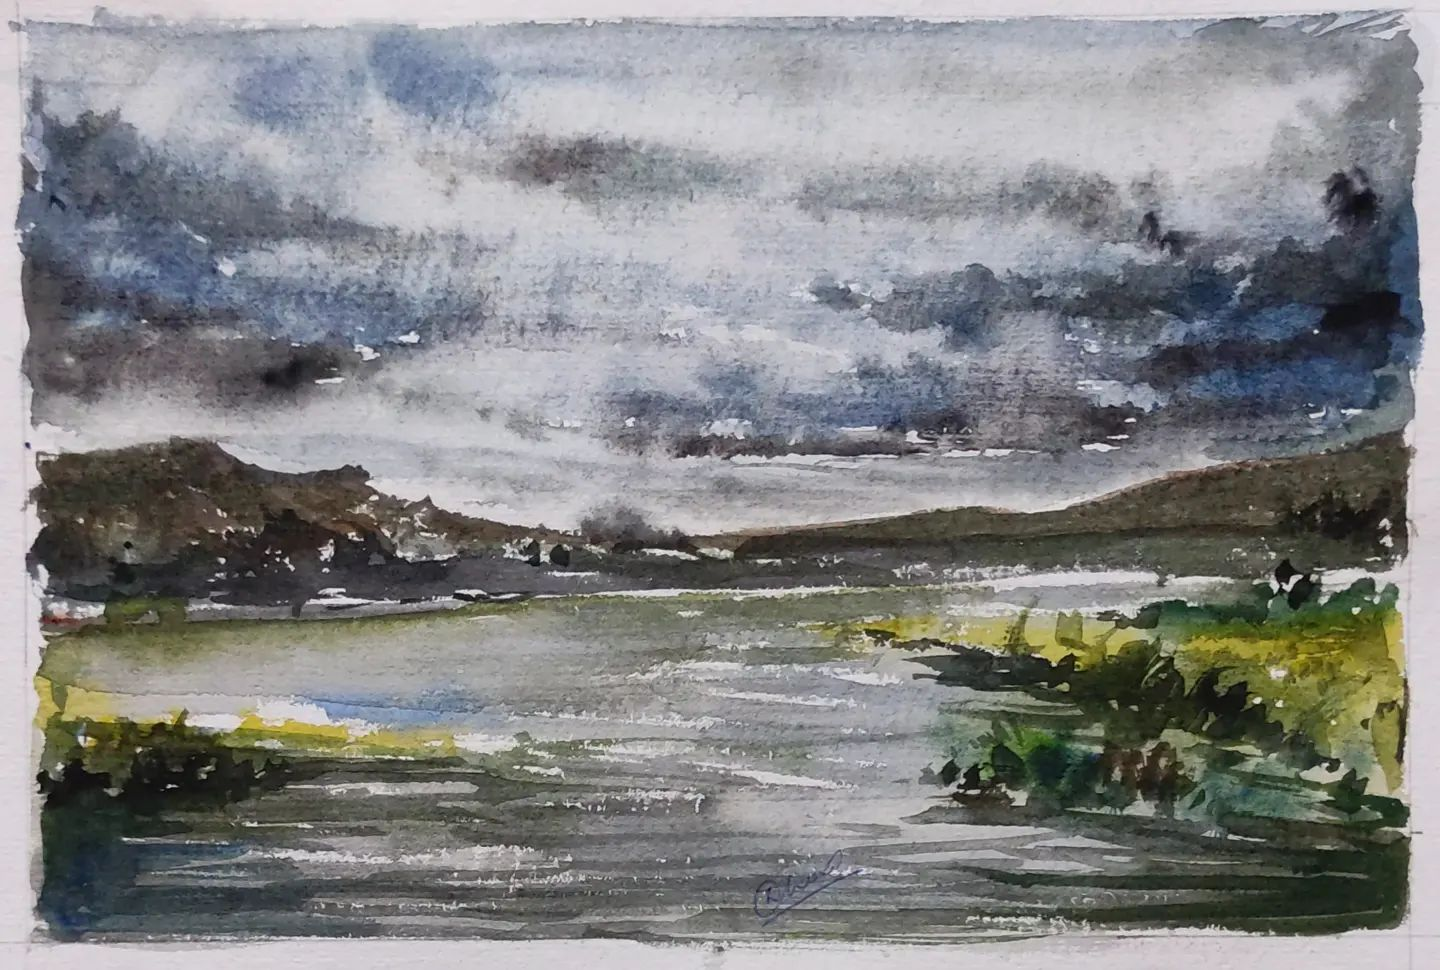
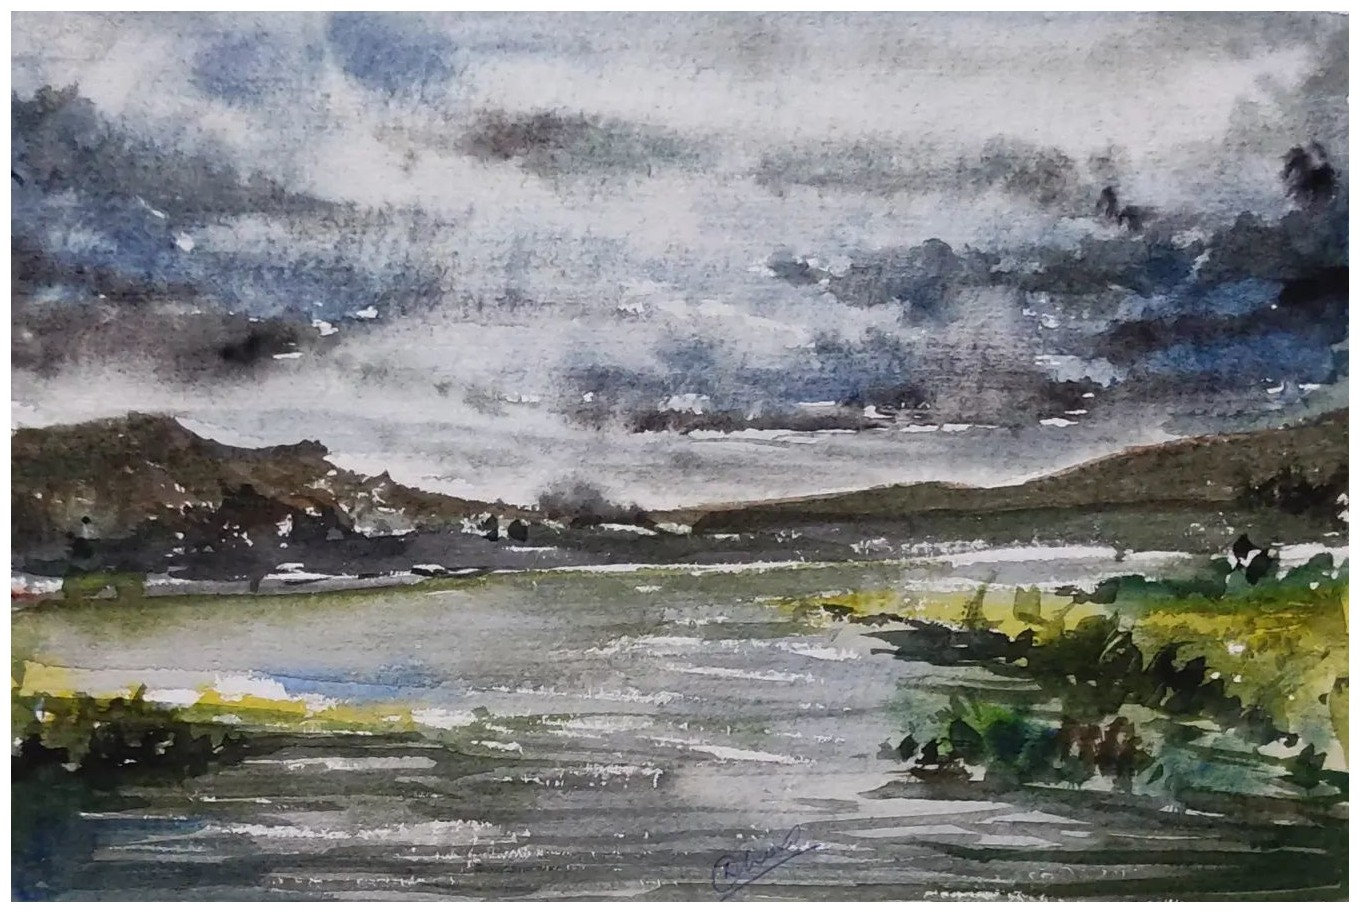
added some photots

diff --git a/docs/others/watercolors/sky/index.html b/docs/others/watercolors/sky/index.html
@@ -17,8 +17,8 @@
   <meta name="viewport" content="width=device-width, initial-scale=1.0" />
   <meta name="theme-color" content="#FFFFFF" />
   
-  <title>Don&#39;t you love the skies &middot; Debojit</title>
-    <meta name="title" content="Don&#39;t you love the skies &middot; Debojit" />
+  <title>Don&#39;t you love the sky? &middot; Debojit</title>
+    <meta name="title" content="Don&#39;t you love the sky? &middot; Debojit" />
   
   
   
@@ -98,7 +98,7 @@
   
   <meta property="og:url" content="https://debojitchanda.github.io/others/watercolors/sky/">
   <meta property="og:site_name" content="Debojit">
-  <meta property="og:title" content="Don&#39;t you love the skies">
+  <meta property="og:title" content="Don&#39;t you love the sky?">
   <meta property="og:locale" content="en">
   <meta property="og:type" content="article">
     <meta property="article:section" content="others">
@@ -107,7 +107,7 @@
 
   
   <meta name="twitter:card" content="summary">
-  <meta name="twitter:title" content="Don&#39;t you love the skies">
+  <meta name="twitter:title" content="Don&#39;t you love the sky?">
 
   
   <script type="application/ld+json">
@@ -115,8 +115,8 @@
     "@context": "https://schema.org",
     "@type": "Article",
     "articleSection": "Other things I do ...",
-    "name": "Don\u0027t you love the skies",
-    "headline": "Don\u0027t you love the skies",
+    "name": "Don\u0027t you love the sky?",
+    "headline": "Don\u0027t you love the sky?",
     
     
     "inLanguage": "en",
@@ -134,7 +134,7 @@
     
     
     "mainEntityOfPage": "true",
-    "wordCount": "35"
+    "wordCount": "49"
   }
   </script>
     
@@ -164,7 +164,7 @@
      },
      {
        "@type": "ListItem",
-       "name": "Don't You Love the Skies",
+       "name": "Don't You Love the Sky?",
        "position": 4
      }
    ]
@@ -381,7 +381,7 @@
     <a
       class="dark:underline-neutral-600 decoration-neutral-300 hover:underline"
       href="/others/watercolors/sky/"
-      >Don&#39;t you love the skies</a
+      >Don&#39;t you love the sky?</a
     ><span class="px-1 text-primary-500">/</span>
   </li>
 
@@ -390,7 +390,7 @@
 
       
       <h1 class="mb-8 mt-0 text-4xl font-extrabold text-neutral-900 dark:text-neutral">
-        Don't you love the skies
+        Don't you love the sky?
       </h1>
       
         <div class="mb-10 text-base text-neutral-500 dark:text-neutral-400 print:hidden">
@@ -428,7 +428,7 @@
   <div class="flex flex-row flex-wrap items-center">
     
     
-      <time datetime="2024-12-25 00:00:00 &#43;0000 UTC">25 December 2024</time><span class="px-2 text-primary-500">&middot;</span><span>35 words</span><span class="px-2 text-primary-500">&middot;</span><span title="Reading time">1 min</span>
+      <time datetime="2024-12-25 00:00:00 &#43;0000 UTC">25 December 2024</time><span class="px-2 text-primary-500">&middot;</span><span>49 words</span><span class="px-2 text-primary-500">&middot;</span><span title="Reading time">1 min</span>
     
 
     
@@ -452,7 +452,8 @@
     <section class="prose mt-0 flex max-w-full flex-col dark:prose-invert lg:flex-row">
       
       <div class="min-h-0 min-w-0 max-w-prose grow">
-        
+        <p>One of my favorite subjects to paint. Enjoy!!</p>
+
   
   
   
@@ -465,8 +466,8 @@
     
   
   <figure class="mx-auto my-0 rounded-md">
-    <img src="/others/watercolors/wait.jpg" alt="watercolor:wait" class="mx-auto my-0 rounded-md"/>
-    <figcaption class="text-center"><strong>Infinity canvas</strong> : <em>A mystique sunset seen over the see.</em> Medium: Watercolor (Camel&rsquo;s Artists&rsquo; Tube)</figcaption>
+    <img src="/others/watercolors/sky1.jpg" alt="watercolor:sky1" class="mx-auto my-0 rounded-md"/>
+    <figcaption class="text-center"><strong>Infinity canvas</strong> : <em>Serene sunset and the rain clouds gather.</em> Medium: Watercolor (Camel&rsquo;s Artists&rsquo; Tube)</figcaption>
   </figure>
 
 
@@ -483,8 +484,8 @@
     
   
   <figure class="mx-auto my-0 rounded-md">
-    <img src="/others/watercolors/vinland.jpg" alt="watercolor:vinland" class="mx-auto my-0 rounded-md"/>
-    <figcaption class="text-center"><strong>Shades of heaven</strong> : <em>A distant land of paradise, inspired from the manga <a href="https://en.wikipedia.org/wiki/Vinland_Saga_%28manga%29" target="_blank" rel="noreferrer">Vinland Saga</a>.</em> Medium: Watercolor (Camel&rsquo;s Artists&rsquo; Tube)</figcaption>
+    <img src="/others/watercolors/sky2.png" alt="watercolor:sky2" class="mx-auto my-0 rounded-md"/>
+    <figcaption class="text-center"><strong>Shades of heaven and earth</strong> : <em>Close your eyes and watch the sky, feel the shadows of the clouds passing by!</em> Medium: Watercolor (Camel&rsquo;s Artists&rsquo; Tube)</figcaption>
   </figure>
 
 
@@ -501,7 +502,7 @@
       
         <a
           class="m-1 inline-block min-w-[2.4rem] rounded bg-neutral-300 p-1 text-center text-neutral-700 hover:bg-primary-500 hover:text-neutral dark:bg-neutral-700 dark:text-neutral-300 dark:hover:bg-primary-400 dark:hover:text-neutral-800"
-          href="https://www.facebook.com/sharer/sharer.php?u=https://debojitchanda.github.io/others/watercolors/sky/&amp;quote=Don%27t%20you%20love%20the%20skies"
+          href="https://www.facebook.com/sharer/sharer.php?u=https://debojitchanda.github.io/others/watercolors/sky/&amp;quote=Don%27t%20you%20love%20the%20sky?"
           title="Share on Facebook"
           aria-label="Share on Facebook"
           target="_blank"
@@ -514,7 +515,7 @@
       
         <a
           class="m-1 inline-block min-w-[2.4rem] rounded bg-neutral-300 p-1 text-center text-neutral-700 hover:bg-primary-500 hover:text-neutral dark:bg-neutral-700 dark:text-neutral-300 dark:hover:bg-primary-400 dark:hover:text-neutral-800"
-          href="https://twitter.com/intent/tweet/?url=https://debojitchanda.github.io/others/watercolors/sky/&amp;text=Don%27t%20you%20love%20the%20skies"
+          href="https://twitter.com/intent/tweet/?url=https://debojitchanda.github.io/others/watercolors/sky/&amp;text=Don%27t%20you%20love%20the%20sky?"
           title="Tweet on Twitter"
           aria-label="Tweet on Twitter"
           target="_blank"
@@ -527,7 +528,7 @@
       
         <a
           class="m-1 inline-block min-w-[2.4rem] rounded bg-neutral-300 p-1 text-center text-neutral-700 hover:bg-primary-500 hover:text-neutral dark:bg-neutral-700 dark:text-neutral-300 dark:hover:bg-primary-400 dark:hover:text-neutral-800"
-          href="https://pinterest.com/pin/create/bookmarklet/?url=https://debojitchanda.github.io/others/watercolors/sky/&amp;description=Don%27t%20you%20love%20the%20skies"
+          href="https://pinterest.com/pin/create/bookmarklet/?url=https://debojitchanda.github.io/others/watercolors/sky/&amp;description=Don%27t%20you%20love%20the%20sky?"
           title="Pin on Pinterest"
           aria-label="Pin on Pinterest"
           target="_blank"
@@ -540,7 +541,7 @@
       
         <a
           class="m-1 inline-block min-w-[2.4rem] rounded bg-neutral-300 p-1 text-center text-neutral-700 hover:bg-primary-500 hover:text-neutral dark:bg-neutral-700 dark:text-neutral-300 dark:hover:bg-primary-400 dark:hover:text-neutral-800"
-          href="https://reddit.com/submit/?url=https://debojitchanda.github.io/others/watercolors/sky/&amp;resubmit=true&amp;title=Don%27t%20you%20love%20the%20skies"
+          href="https://reddit.com/submit/?url=https://debojitchanda.github.io/others/watercolors/sky/&amp;resubmit=true&amp;title=Don%27t%20you%20love%20the%20sky?"
           title="Submit to Reddit"
           aria-label="Submit to Reddit"
           target="_blank"
@@ -553,7 +554,7 @@
       
         <a
           class="m-1 inline-block min-w-[2.4rem] rounded bg-neutral-300 p-1 text-center text-neutral-700 hover:bg-primary-500 hover:text-neutral dark:bg-neutral-700 dark:text-neutral-300 dark:hover:bg-primary-400 dark:hover:text-neutral-800"
-          href="https://www.linkedin.com/shareArticle?mini=true&amp;url=https://debojitchanda.github.io/others/watercolors/sky/&amp;title=Don%27t%20you%20love%20the%20skies"
+          href="https://www.linkedin.com/shareArticle?mini=true&amp;url=https://debojitchanda.github.io/others/watercolors/sky/&amp;title=Don%27t%20you%20love%20the%20sky?"
           title="Share on LinkedIn"
           aria-label="Share on LinkedIn"
           target="_blank"
@@ -566,7 +567,7 @@
       
         <a
           class="m-1 inline-block min-w-[2.4rem] rounded bg-neutral-300 p-1 text-center text-neutral-700 hover:bg-primary-500 hover:text-neutral dark:bg-neutral-700 dark:text-neutral-300 dark:hover:bg-primary-400 dark:hover:text-neutral-800"
-          href="mailto:?body=https://debojitchanda.github.io/others/watercolors/sky/&amp;subject=Don%27t%20you%20love%20the%20skies"
+          href="mailto:?body=https://debojitchanda.github.io/others/watercolors/sky/&amp;subject=Don%27t%20you%20love%20the%20sky?"
           title="Send via email"
           aria-label="Send via email"
           target="_blank"

diff --git a/docs/others/watercolors/wait/index.html b/docs/others/watercolors/wait/index.html
@@ -17,8 +17,8 @@
   <meta name="viewport" content="width=device-width, initial-scale=1.0" />
   <meta name="theme-color" content="#FFFFFF" />
   
-  <title>Wait for paradise &middot; Debojit</title>
-    <meta name="title" content="Wait for paradise &middot; Debojit" />
+  <title>Wait for paradise! &middot; Debojit</title>
+    <meta name="title" content="Wait for paradise! &middot; Debojit" />
   
   
   
@@ -98,7 +98,7 @@
   
   <meta property="og:url" content="https://debojitchanda.github.io/others/watercolors/wait/">
   <meta property="og:site_name" content="Debojit">
-  <meta property="og:title" content="Wait for paradise">
+  <meta property="og:title" content="Wait for paradise!">
   <meta property="og:locale" content="en">
   <meta property="og:type" content="article">
     <meta property="article:section" content="others">
@@ -107,7 +107,7 @@
 
   
   <meta name="twitter:card" content="summary">
-  <meta name="twitter:title" content="Wait for paradise">
+  <meta name="twitter:title" content="Wait for paradise!">
 
   
   <script type="application/ld+json">
@@ -115,8 +115,8 @@
     "@context": "https://schema.org",
     "@type": "Article",
     "articleSection": "Other things I do ...",
-    "name": "Wait for paradise",
-    "headline": "Wait for paradise",
+    "name": "Wait for paradise!",
+    "headline": "Wait for paradise!",
     
     
     "inLanguage": "en",
@@ -164,7 +164,7 @@
      },
      {
        "@type": "ListItem",
-       "name": "Wait for Paradise",
+       "name": "Wait for Paradise!",
        "position": 4
      }
    ]
@@ -381,7 +381,7 @@
     <a
       class="dark:underline-neutral-600 decoration-neutral-300 hover:underline"
       href="/others/watercolors/wait/"
-      >Wait for paradise</a
+      >Wait for paradise!</a
     ><span class="px-1 text-primary-500">/</span>
   </li>
 
@@ -390,7 +390,7 @@
 
       
       <h1 class="mb-8 mt-0 text-4xl font-extrabold text-neutral-900 dark:text-neutral">
-        Wait for paradise
+        Wait for paradise!
       </h1>
       
         <div class="mb-10 text-base text-neutral-500 dark:text-neutral-400 print:hidden">
@@ -503,7 +503,7 @@
       
         <a
           class="m-1 inline-block min-w-[2.4rem] rounded bg-neutral-300 p-1 text-center text-neutral-700 hover:bg-primary-500 hover:text-neutral dark:bg-neutral-700 dark:text-neutral-300 dark:hover:bg-primary-400 dark:hover:text-neutral-800"
-          href="https://www.facebook.com/sharer/sharer.php?u=https://debojitchanda.github.io/others/watercolors/wait/&amp;quote=Wait%20for%20paradise"
+          href="https://www.facebook.com/sharer/sharer.php?u=https://debojitchanda.github.io/others/watercolors/wait/&amp;quote=Wait%20for%20paradise!"
           title="Share on Facebook"
           aria-label="Share on Facebook"
           target="_blank"
@@ -516,7 +516,7 @@
       
         <a
           class="m-1 inline-block min-w-[2.4rem] rounded bg-neutral-300 p-1 text-center text-neutral-700 hover:bg-primary-500 hover:text-neutral dark:bg-neutral-700 dark:text-neutral-300 dark:hover:bg-primary-400 dark:hover:text-neutral-800"
-          href="https://twitter.com/intent/tweet/?url=https://debojitchanda.github.io/others/watercolors/wait/&amp;text=Wait%20for%20paradise"
+          href="https://twitter.com/intent/tweet/?url=https://debojitchanda.github.io/others/watercolors/wait/&amp;text=Wait%20for%20paradise!"
           title="Tweet on Twitter"
           aria-label="Tweet on Twitter"
           target="_blank"
@@ -529,7 +529,7 @@
       
         <a
           class="m-1 inline-block min-w-[2.4rem] rounded bg-neutral-300 p-1 text-center text-neutral-700 hover:bg-primary-500 hover:text-neutral dark:bg-neutral-700 dark:text-neutral-300 dark:hover:bg-primary-400 dark:hover:text-neutral-800"
-          href="https://pinterest.com/pin/create/bookmarklet/?url=https://debojitchanda.github.io/others/watercolors/wait/&amp;description=Wait%20for%20paradise"
+          href="https://pinterest.com/pin/create/bookmarklet/?url=https://debojitchanda.github.io/others/watercolors/wait/&amp;description=Wait%20for%20paradise!"
           title="Pin on Pinterest"
           aria-label="Pin on Pinterest"
           target="_blank"
@@ -542,7 +542,7 @@
       
         <a
           class="m-1 inline-block min-w-[2.4rem] rounded bg-neutral-300 p-1 text-center text-neutral-700 hover:bg-primary-500 hover:text-neutral dark:bg-neutral-700 dark:text-neutral-300 dark:hover:bg-primary-400 dark:hover:text-neutral-800"
-          href="https://reddit.com/submit/?url=https://debojitchanda.github.io/others/watercolors/wait/&amp;resubmit=true&amp;title=Wait%20for%20paradise"
+          href="https://reddit.com/submit/?url=https://debojitchanda.github.io/others/watercolors/wait/&amp;resubmit=true&amp;title=Wait%20for%20paradise!"
           title="Submit to Reddit"
           aria-label="Submit to Reddit"
           target="_blank"
@@ -555,7 +555,7 @@
       
         <a
           class="m-1 inline-block min-w-[2.4rem] rounded bg-neutral-300 p-1 text-center text-neutral-700 hover:bg-primary-500 hover:text-neutral dark:bg-neutral-700 dark:text-neutral-300 dark:hover:bg-primary-400 dark:hover:text-neutral-800"
-          href="https://www.linkedin.com/shareArticle?mini=true&amp;url=https://debojitchanda.github.io/others/watercolors/wait/&amp;title=Wait%20for%20paradise"
+          href="https://www.linkedin.com/shareArticle?mini=true&amp;url=https://debojitchanda.github.io/others/watercolors/wait/&amp;title=Wait%20for%20paradise!"
           title="Share on LinkedIn"
           aria-label="Share on LinkedIn"
           target="_blank"
@@ -568,7 +568,7 @@
       
         <a
           class="m-1 inline-block min-w-[2.4rem] rounded bg-neutral-300 p-1 text-center text-neutral-700 hover:bg-primary-500 hover:text-neutral dark:bg-neutral-700 dark:text-neutral-300 dark:hover:bg-primary-400 dark:hover:text-neutral-800"
-          href="mailto:?body=https://debojitchanda.github.io/others/watercolors/wait/&amp;subject=Wait%20for%20paradise"
+          href="mailto:?body=https://debojitchanda.github.io/others/watercolors/wait/&amp;subject=Wait%20for%20paradise!"
           title="Send via email"
           aria-label="Send via email"
           target="_blank"

diff --git a/docs/others/watercolors/index.html b/docs/others/watercolors/index.html
@@ -344,7 +344,7 @@
         <a
           class="text-neutral-800 decoration-primary-500 hover:underline hover:underline-offset-2 dark:text-neutral"
           href="/others/watercolors/sky/"
-          >Don't you love the skies</a
+          >Don't you love the sky?</a
         >
       
       
@@ -382,7 +382,7 @@
   <div class="flex flex-row flex-wrap items-center">
     
     
-      <time datetime="2024-12-25 00:00:00 &#43;0000 UTC">25 December 2024</time><span class="px-2 text-primary-500">&middot;</span><span>35 words</span><span class="px-2 text-primary-500">&middot;</span><span title="Reading time">1 min</span>
+      <time datetime="2024-12-25 00:00:00 &#43;0000 UTC">25 December 2024</time><span class="px-2 text-primary-500">&middot;</span><span>49 words</span><span class="px-2 text-primary-500">&middot;</span><span title="Reading time">1 min</span>
     
 
     
@@ -416,7 +416,7 @@
         <a
           class="text-neutral-800 decoration-primary-500 hover:underline hover:underline-offset-2 dark:text-neutral"
           href="/others/watercolors/wait/"
-          >Wait for paradise</a
+          >Wait for paradise!</a
         >
       
       

diff --git a/content/others/watercolors/sky.md b/content/others/watercolors/sky.md
@@ -1,19 +1,19 @@
 ---
-title: "Don't you love the skies"
+title: "Don't you love the sky?"
 Date: 2024-12-25
 draft: false
 ---
 
-
+One of my favorite subjects to paint. Enjoy!!
 
 {{<figure
-src="/others/watercolors/wait.jpg"
-alt="watercolor:wait"
-caption="__Infinity canvas__ : _A mystique sunset seen over the see._ Medium: Watercolor (Camel's Artists' Tube)"
+src="/others/watercolors/sky1.jpg"
+alt="watercolor:sky1"
+caption="__Infinity canvas__ : _Serene sunset and the rain clouds gather._ Medium: Watercolor (Camel's Artists' Tube)"
 >}}
 
 {{<figure
-src="/others/watercolors/vinland.jpg"
-alt="watercolor:vinland"
-caption="__Shades of heaven__ : _A distant land of paradise, inspired from the manga [Vinland Saga](https://en.wikipedia.org/wiki/Vinland_Saga_(manga))._ Medium: Watercolor (Camel's Artists' Tube)"
+src="/others/watercolors/sky2.png"
+alt="watercolor:sky2"
+caption="__Shades of heaven and earth__ : _Close your eyes and watch the sky, feel the shadows of the clouds passing by!_ Medium: Watercolor (Camel's Artists' Tube)"
 >}}

diff --git a/content/others/watercolors/wait.md b/content/others/watercolors/wait.md
@@ -1,7 +1,6 @@
 ---
-title: "Wait for paradise"
+title: "Wait for paradise!"
 Date: 2022-04-18T19:37:14+05:30
-DateUpdated: 2022-04-18T19:37:14+05:30
 draft: false
 ---
 I was on vacation, visiting my parents in Kolkata. It was summer time and I was devastated by the humidity and heat. Watercolor came to my rescue.
